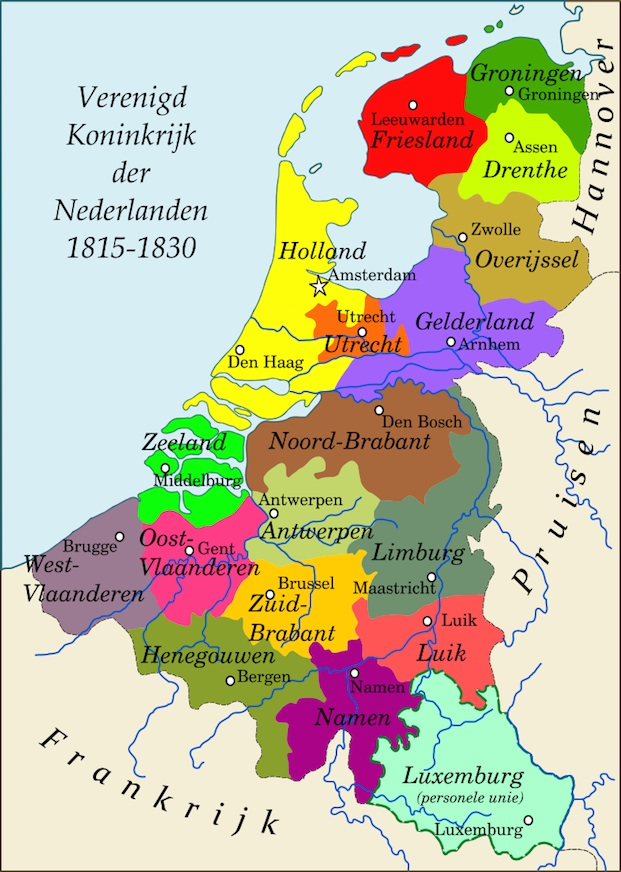
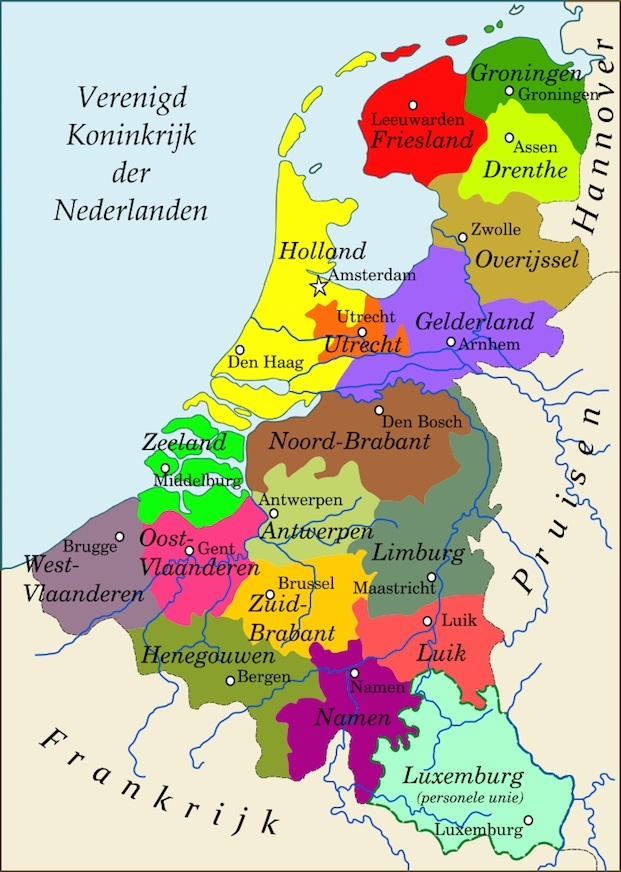
added a number in the capital circles + increased their size

diff --git a/src/data/NedData.java b/src/data/NedData.java
@@ -32,54 +32,54 @@ public class NedData extends GameData {
 	private static Province[] desnamen = new Province[4];
 	private static Province[] desluxemburg = new Province[2];
 
-	private static int circlesize = 14;
+	private static int circlesize = 20;
 
 	// creates an array with all the provinces
 	ArrayList<Province> nedprovinces;
 
 	private static Province GRONINGEN = new Province(1, null, "Groningen",
-			"Groningen", Nationality.NEDERLANDS, 0, new Ellipse2D.Double(503,
+			"Groningen", Nationality.NEDERLANDS, 0, new Ellipse2D.Double(497,
 					84, circlesize, circlesize), false, desgroningen,
 			new Color(0x40a837));
 	private static Province FRIESLAND = new Province(2, null, "Friesland",
-			"Leeuwarden", Nationality.NEDERLANDS, 0, new Ellipse2D.Double(406,
-					99, circlesize, circlesize), false, desfriesland,
+			"Leeuwarden", Nationality.NEDERLANDS, 0, new Ellipse2D.Double(405,
+					90, circlesize, circlesize), false, desfriesland,
 			new Color(0xfc0d0a));
 	private static Province DRENTHE = new Province(3, null, "Drenthe", "Assen",
-			Nationality.NEDERLANDS, 0, new Ellipse2D.Double(503, 130,
+			Nationality.NEDERLANDS, 0, new Ellipse2D.Double(500, 122,
 					circlesize, circlesize), false, desdrenthe, new Color(
 					0xccfe07));
 	private static Province OVERIJSSEL = new Province(4, null, "Overijssel",
-			"Zwolle", Nationality.NEDERLANDS, 0, new Ellipse2D.Double(457, 230,
+			"Zwolle", Nationality.NEDERLANDS, 0, new Ellipse2D.Double(455, 232,
 					circlesize, circlesize), false, desoverijssel, new Color(
 					0xc8ab36));
 	private static Province GELDERLAND = new Province(5, null, "Gelderland",
-			"Arnhem", Nationality.NEDERLANDS, 0, new Ellipse2D.Double(442, 334,
+			"Arnhem", Nationality.NEDERLANDS, 0, new Ellipse2D.Double(442, 325,
 					circlesize, circlesize), false, desgelderland, new Color(
 					0xa368f0));
 	private static Province UTRECHT = new Province(6, null, "Utrecht",
 			"Utrecht", Nationality.NEDERLANDS, 0, new Ellipse2D.Double(355,
-					325, circlesize, circlesize), false, desutrecht, new Color(
+					320, circlesize, circlesize), false, desutrecht, new Color(
 					0xff6b2f));
 	private static Province HOLLAND = new Province(7, null, "Holland",
 			"Den Haag", Nationality.NEDERLANDS, 0, new Ellipse2D.Double(234,
-					342, circlesize, circlesize), false, desholland, new Color(
+					337, circlesize, circlesize), false, desholland, new Color(
 					0xfefe08));
 	private static Province NOORD_BRABANT = new Province(8, null,
 			"Noord-Brabant", "Den Bosch", Nationality.NEDERLANDS, 0,
-			new Ellipse2D.Double(370, 402, circlesize, circlesize), false,
+			new Ellipse2D.Double(363, 402, circlesize, circlesize), false,
 			desnoordbrabant, new Color(0xa96744));
 	private static Province ZEELAND = new Province(9, null, "Zeeland",
 			"Middelburg", Nationality.NEDERLANDS, 0, new Ellipse2D.Double(157,
-					460, circlesize, circlesize), false, deszeeland, new Color(
+					452, circlesize, circlesize), false, deszeeland, new Color(
 					0x00f954));
 	private static Province WEST_VLAANDEREN = new Province(10, null,
 			"West-Vlaanderen", "Brugge", Nationality.VLAAMS, 0,
-			new Ellipse2D.Double(112, 530, circlesize, circlesize), false,
+			new Ellipse2D.Double(114, 527, circlesize, circlesize), false,
 			deswestvlaanderen, new Color(0x9a7b92));
 	private static Province OOST_VLAANDEREN = new Province(11, null,
 			"Oost-Vlaanderen", "Gent", Nationality.VLAAMS, 0,
-			new Ellipse2D.Double(182, 541, circlesize, circlesize), false,
+			new Ellipse2D.Double(180, 542, circlesize, circlesize), false,
 			desoostvlaanderen, new Color(0xfd3d86));
 	private static Province ANTWERPEN = new Province(12, null, "Antwerpen",
 			"Antwerpen", Nationality.VLAAMS, 0, new Ellipse2D.Double(268, 505,
@@ -87,21 +87,21 @@ public class NedData extends GameData {
 					0xc0d671));
 	private static Province LIMBURG = new Province(13, null, "Limburg",
 			"Maastricht", Nationality.NEDERLANDS, 0, new Ellipse2D.Double(422,
-					568, circlesize, circlesize), false, deslimburg, new Color(
+					562, circlesize, circlesize), false, deslimburg, new Color(
 					0x6f9070));
 	private static Province ZUID_BRABANT = new Province(14, null,
 			"Zuid-Brabant", "Brussel", Nationality.VLAAMS, 0,
-			new Ellipse2D.Double(262, 587, circlesize, circlesize), false,
+			new Ellipse2D.Double(260, 580, circlesize, circlesize), false,
 			deszuidbrabant, new Color(0xfdcb49));
 	private static Province LUIK = new Province(15, null, "Luik", "Luik",
 			Nationality.WAALS, 0, new Ellipse2D.Double(420, 615, circlesize,
 					circlesize), false, desluik, new Color(0xfd5555));
 	private static Province HENEGOUWEN = new Province(16, null, "Henegouwen",
-			"Bergen", Nationality.WAALS, 0, new Ellipse2D.Double(223, 672,
+			"Bergen", Nationality.WAALS, 0, new Ellipse2D.Double(217, 672,
 					circlesize, circlesize), false, deshenegouwen, new Color(
 					0x89a02b));
 	private static Province NAMEN = new Province(17, null, "Namen", "Namen",
-			Nationality.WAALS, 0, new Ellipse2D.Double(349, 665, circlesize,
+			Nationality.WAALS, 0, new Ellipse2D.Double(349, 657, circlesize,
 					circlesize), false, desnamen, new Color(0xaa0187));
 	private static Province LUXEMBURG = new Province(18, null, "Luxemburg",
 			"Luxemburg", Nationality.WAALS, 0, new Ellipse2D.Double(521, 813,

diff --git a/src/gui/RiskMap.java b/src/gui/RiskMap.java
@@ -69,21 +69,35 @@ public class RiskMap extends JPanel {
 			if (province.SELECTED == true) {
 
 				g2d.setColor(Color.MAGENTA);
-			} else if (province.SELECTED == false && province.getPlayer() == GameData.PLAYER_ONE) {
+			} else if (province.SELECTED == false
+					&& province.getPlayer() == GameData.PLAYER_ONE) {
 
 				g2d.setColor(GameData.PLAYER_ONE.getPlayerColor());
-			} else if(province.SELECTED == false && province.getPlayer() == GameData.PLAYER_TWO) {
-				
+			} else if (province.SELECTED == false
+					&& province.getPlayer() == GameData.PLAYER_TWO) {
+
 				g2d.setColor(GameData.PLAYER_TWO.getPlayerColor());
-			} else if(province.SELECTED == false && province.getPlayer() == GameData.PLAYER_THREE) {
-				
+			} else if (province.SELECTED == false
+					&& province.getPlayer() == GameData.PLAYER_THREE) {
+
 				g2d.setColor(GameData.PLAYER_THREE.getPlayerColor());
 			}
 
 			g2d.fill(province.getCapitalShape());
-			
+
 			g2d.setColor(Color.WHITE);
 			g2d.draw(province.getCapitalShape());
+
+
+			if (province.getArmy() < 10) {
+				g2d.drawString("" + province.getArmy(), (int) province
+						.getCapitalShape().getX() + 6, (int) province
+						.getCapitalShape().getY() + 15);
+			} else {
+				g2d.drawString("" + province.getArmy(), (int) province
+						.getCapitalShape().getX() + 3, (int) province
+						.getCapitalShape().getY() + 15);
+			}
 
 		}
 
@@ -98,7 +112,7 @@ public class RiskMap extends JPanel {
 			@Override
 			public void mouseClicked(MouseEvent e) {
 				super.mouseClicked(e);
-				
+
 				NLmap nlmap = new NLmap();
 				Color color = nlmap.getPointColor(e.getPoint());
 
@@ -142,8 +156,7 @@ public class RiskMap extends JPanel {
 
 					}
 				}
-				
-				
+
 			}
 		});
 

diff --git a/src/data/Province.java b/src/data/Province.java
@@ -4,6 +4,7 @@ import game.Player;
 
 import java.awt.Color;
 import java.awt.Shape;
+import java.awt.geom.Ellipse2D;
 
 import javax.swing.JPanel;
 
@@ -20,7 +21,7 @@ public class Province extends JPanel {
 	private int army = 0;
 	private String name;
 	private String capital;
-	private Shape capitalshape;
+	private Ellipse2D capitalshape;
 	public boolean SELECTED = false;
 	private Province[] destinations;
 	private Color color;
@@ -37,7 +38,7 @@ public class Province extends JPanel {
 	 * @param MOVETO whether or not the province is a target
 	 */
 	public Province(int id, Player player, String name, String capital, Nationality nation, int army,
-			Shape capitalshape, boolean SELECTED, Province[] destinations, Color color) {
+			Ellipse2D capitalshape, boolean SELECTED, Province[] destinations, Color color) {
 		this.id = id;
 		this.player = player;
 		this.name = name;
@@ -78,7 +79,7 @@ public class Province extends JPanel {
 		army = amount;
 	}
 
-	public Shape getCapitalShape() {
+	public Ellipse2D getCapitalShape() {
 		return capitalshape;
 	}
 	

diff --git a/src/data/GameData.java b/src/data/GameData.java
@@ -20,7 +20,7 @@ public class GameData {
 	
 	public static final Player PLAYER_ONE = new Player(1, STARTING_ARMIES, 0, Color.BLUE);
 	public static final Player PLAYER_TWO = new Player(2, STARTING_ARMIES, 0, Color.RED);
-	public static final Player PLAYER_THREE = new Player(3, STARTING_ARMIES, 0, Color.YELLOW);
+	public static final Player PLAYER_THREE = new Player(3, STARTING_ARMIES, 0, Color.DARK_GRAY);
 	
 	private static int[] attackResultArray = null;
 	private static int[] defenceResultArray = null;

diff --git a/src/data/NLmap.java b/src/data/NLmap.java
@@ -10,10 +10,6 @@ import javax.imageio.ImageIO;
 
 public class NLmap {
 
-	/**
-	 * 
-	 */
-	private static final long serialVersionUID = 1L;
 	public File netherlands = new File(
 			"../DutchRisk/src/img/NL-coordinates.png");
 	public BufferedImage buffimg;
@@ -27,7 +23,6 @@ public class NLmap {
 			System.exit(1);
 		}
 
-		// returnProvince();
 	}
 
 	public Color getPointColor(Point point) {

diff --git a/src/gui/RiskBoard.java b/src/gui/RiskBoard.java
@@ -334,6 +334,7 @@ public class RiskBoard extends JFrame {
 				public void actionPerformed(ActionEvent e) {
 
 					RiskGame.addUnit();
+					game.repaint();
 
 				}
 			});
@@ -353,6 +354,7 @@ public class RiskBoard extends JFrame {
 				public void actionPerformed(ActionEvent e) {
 
 					RiskGame.removeUnit();
+					game.repaint();
 
 				}
 			});
